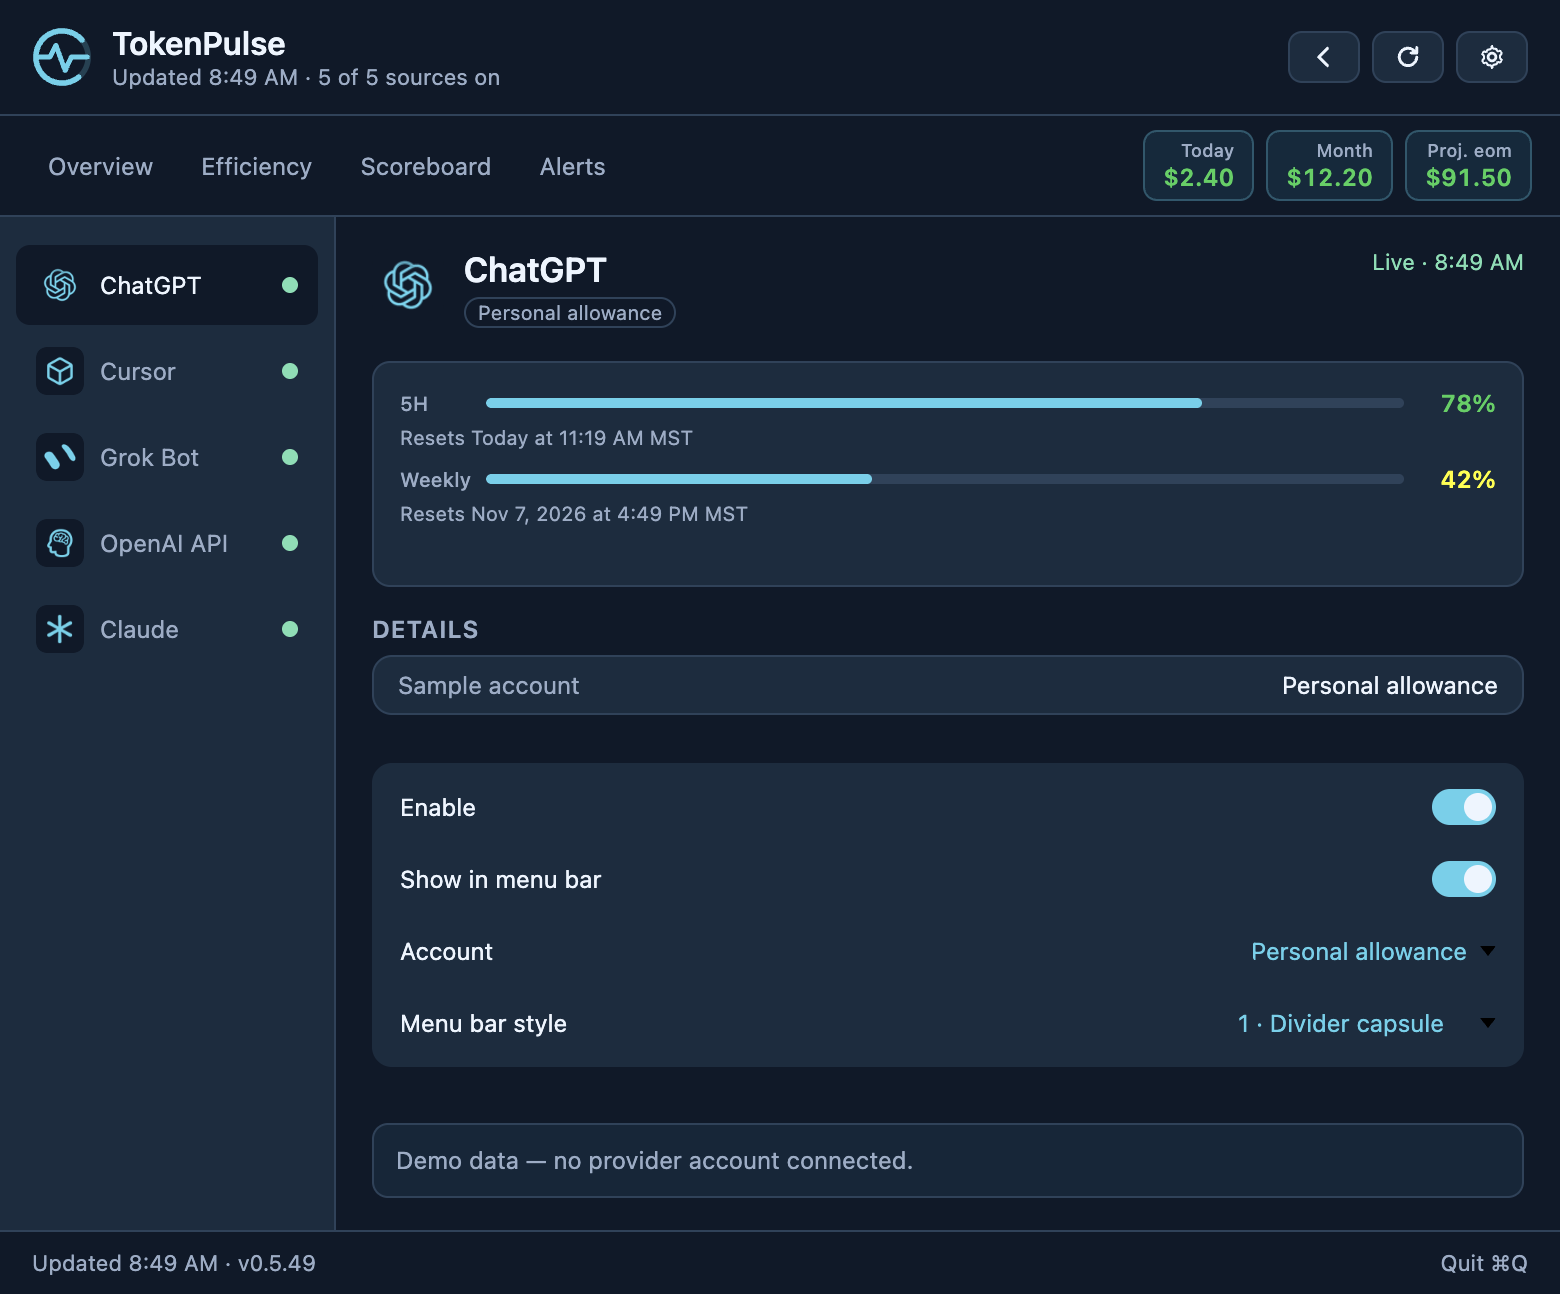
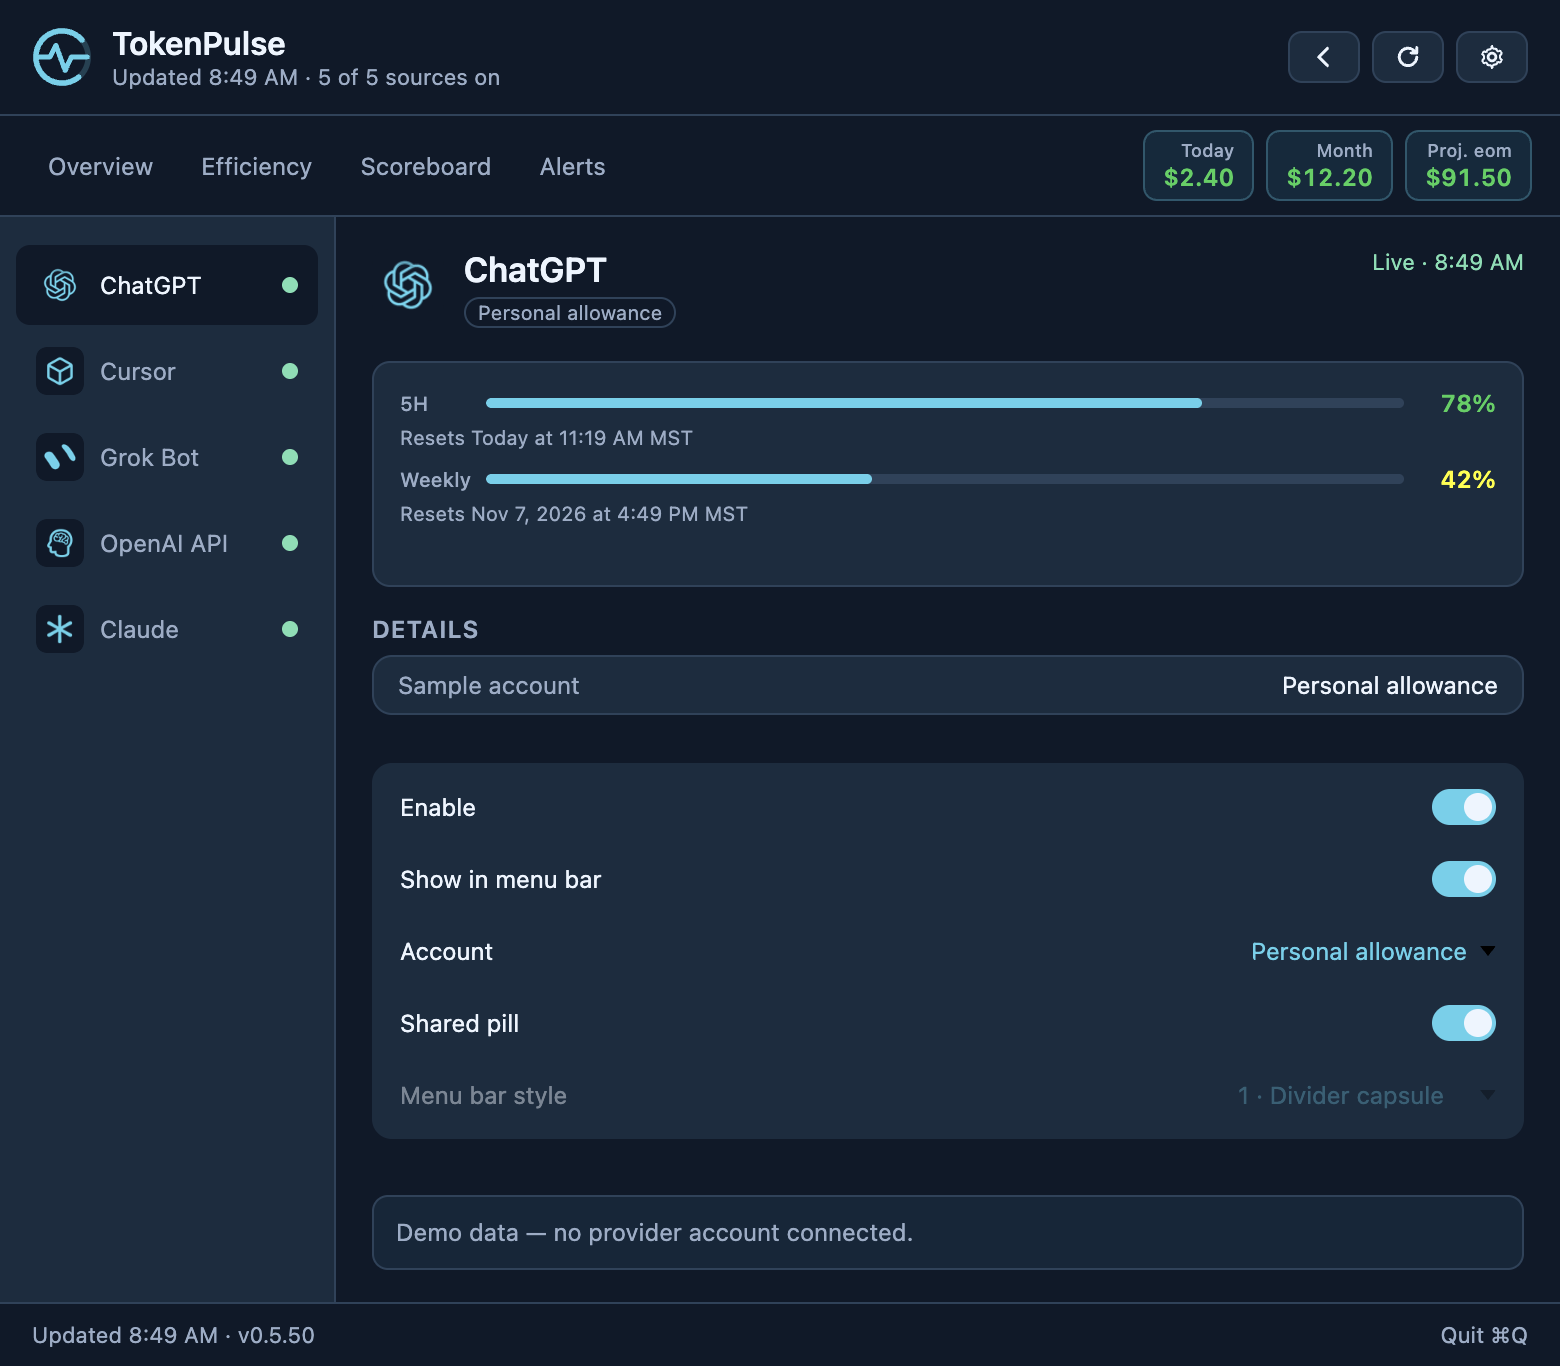
docs: show the single combined menu-bar pill

diff --git a/README.md b/README.md
@@ -2,12 +2,31 @@
 
 TokenPulse is a tray app for **macOS** and **Windows** that shows how much of your AI allowance is left, and what recent spend looks like, without opening each provider's dashboard.
 
-It is local-first. Claude, Cursor, ChatGPT, OpenAI API, and Grok Bot are separate sources. You turn a source on when you want it. A missing sign-in or a failed refresh leaves the last good numbers in place, then fades them once they are stale. On a Mac the menu bar shows one short block per source you chose to show. On Windows the same text is in the tray tooltip. Clicking the icon opens a dark Mission Control panel with the details and preferences.
+It is local-first. Claude, Cursor, ChatGPT, OpenAI API, and Grok Bot are separate sources. You turn a source on when you want it. A missing sign-in or a failed refresh leaves the last good numbers in place, then fades them once they are stale. On a Mac, enabled sources can share one combined menu-bar pill, or use separate capsules when you turn off **Shared pill** for a provider. On Windows the same text is in the tray tooltip. Clicking the icon opens a dark Mission Control panel with the details and preferences.
 
 The app is Electron. The original Swift menu-bar app is still in `menubar/` (see [Legacy Swift app](#legacy-swift-app)).
 
 
 ## Menu-bar previews
+
+### Single combined pill
+
+**Shared pill** joins participating providers inside one capsule. It is enabled by default for each provider. Turn it off on a provider’s detail page to keep that provider’s selected individual style instead; the other providers remain grouped. While Shared pill is on, the individual **Menu bar style** selector is disabled.
+
+<a href="docs/screenshots/menu-bar-shared-pill.png"><img src="docs/screenshots/menu-bar-shared-pill.png" alt="Single combined pill with ChatGPT, Cursor, and Grok Bot using fictional values" width="354" /></a>
+
+The compact example uses standard provider marks and one reported allowance per source. The all-provider examples below also show separate session/weekly rings and OpenAI balance/spend figures. **Options → Letters inside rings** controls the optional ring labels.
+
+<details>
+<summary>Shared-pill combinations and the setting</summary>
+
+<a href="docs/screenshots/menu-bar-shared-options.png"><img src="docs/screenshots/menu-bar-shared-options.png" alt="Shared pill with all five providers, individual opt-out, and ring letters" width="780" /></a>
+
+<a href="docs/screenshots/shared-pill-settings.png"><img src="docs/screenshots/shared-pill-settings.png" alt="Provider settings with Shared pill enabled and individual style disabled" width="780" /></a>
+
+</details>
+
+### Separate provider capsules
 
 All five providers together, using fictional values: **ChatGPT · Cursor · Grok Bot · OpenAI API · Claude**. Each provider can use its own supported layout.
 
@@ -391,7 +410,7 @@ That installs `~/Applications/TokenPulse-Swift.app` (`com.kris.tokenpulse.swift`
 
 ## Version
 
-The shipping version is `package.json` → `version` (currently **0.3.0**). The panel shows it as `v0.3.0` in Options and in the footer. Bump that field before each release you push and package; Electron Builder embeds it so `app.getVersion()` matches.
+The shipping version is `package.json` → `version` (currently **0.5.50**). The panel shows it as `v0.5.50` in Options and in the footer. Bump that field before each release you push and package; Electron Builder embeds it so `app.getVersion()` matches.
 
 ## License
 

diff --git a/docs/menu-bar.md b/docs/menu-bar.md
@@ -4,6 +4,16 @@ TokenPulse covers all seven supported styles across all four allowance providers
 
 Every icon/capsule is produced by the app’s real drawing functions. Sample values are fictional. Labeled sheets enlarge rendered PNGs 2×; the combined TokenPulse strip retains its original Retina pixels. No account data, credentials, private repository data, job state, or live prices are read. The entry point never starts the production backend and blocks network requests.
 
+## Single combined pill
+
+Shared pill is on by default for each provider. It collects participating providers inside one capsule, using rings for allowances and money figures for balance/spend. Disable **Shared pill** on a provider’s detail page to let that provider keep its separate selected style. Individual style selection is disabled while the provider participates. **Options → Letters inside rings** adds ring labels.
+
+![Compact shared pill with fictional values](screenshots/menu-bar-shared-pill.png)
+
+![All-provider, opt-out, and ring-letter examples](screenshots/menu-bar-shared-options.png)
+
+![Provider setting for the shared pill](screenshots/shared-pill-settings.png)
+
 ## Regenerate only menu-bar previews
 
 ```bash

diff --git a/docs/screenshots/README.md b/docs/screenshots/README.md
@@ -6,7 +6,7 @@ These are captures of `dist/index.html` built from the repository’s actual `sr
 
 No installed app, sign-in, API key, real repository scan, market-data request, or scheduled command is needed. Example stock prices, allowance percentages, balances, and positions are illustrative. There are no AI-generated interface images.
 
-Captured from version **0.5.49**, source revision `058831b`.
+Captured from version **0.5.50**, source revision `2b0c19c`.
 
 
 ## Menu-bar icons and views
@@ -134,3 +134,9 @@ Notification toggles, individual 15/10/5 percent levels, sound, and system setti
 Per-provider style preference set to the stacked-track layout.
 
 ![Per-provider style preference set to the stacked-track layout.](menu-bar-style.png)
+
+## Shared pill settings
+
+The per-provider Shared pill switch joins the combined capsule and disables individual style selection while enabled. All sample values are fictional.
+
+![Shared pill provider settings](shared-pill-settings.png)
